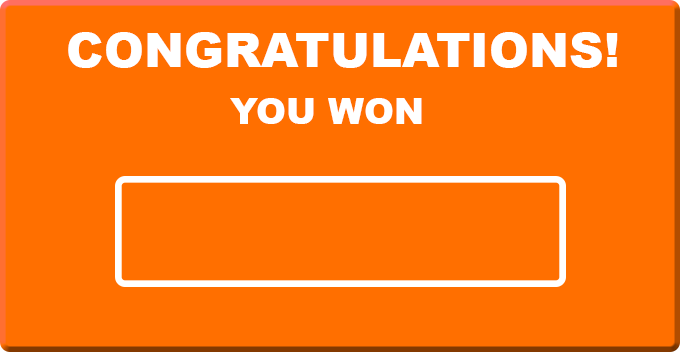
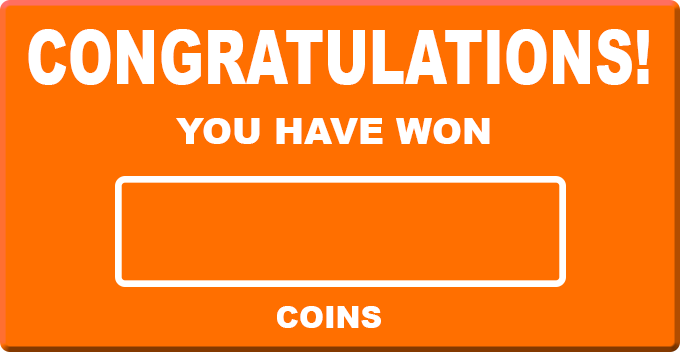
polished up the ai changed the winpanel assets

Changed region(s): [[0.0309, 0.0625, 0.9574, 0.25], [0.2471, 0.2812, 0.7412, 0.4062], [0.4015, 0.8438, 0.5559, 0.9375]]

diff --git a/src/GameStage.js b/src/GameStage.js
@@ -1,7 +1,7 @@
 /**
  * Created by jollzy on 01/12/2015.
  */
-
+var TESTCOUNT = 12;
 function GameStage(itemCreator){
     PIXI.Container.call(this);
     this.gameStart = false;
@@ -9,6 +9,9 @@ function GameStage(itemCreator){
     var size = getWindowBounds();
     this.position.x = 0;
     this.position.y = 0;
+    this.winner = null;
+    this.counter = 0;
+
 
     //holds the runners instances (snails)
     this.runners = [];
@@ -25,8 +28,9 @@ function GameStage(itemCreator){
 
     this.onRaceStart = this.onRaceStart.bind(this);
     this.onResult= this.onResult.bind(this);
-
     Events.Dispatcher.addEventListener(GameEventType.RACE_START,this.onRaceStart);
+    this.onBetCompleted = this.onBetCompleted.bind(this);
+    Events.Dispatcher.addEventListener(GameEventType.BET_COMPLETED,this.onBetCompleted);
 
 };
 
@@ -43,7 +47,21 @@ GameStage.prototype.gameLoop = function(){
             if(this.runners[i].position.x > this.runners[i].finishLineX){
                 clearInterval(this.interval);
                 this.gameStart = false;
-                this.onResult(this.runners[i]);
+                this.winner = this.runners[i]
+                this.counter++;
+               /* switch(this.winner.id){
+                    case 1:
+                        console.log(this.counter+"  winner snail ---- "+ this.winner.id);
+                        break;
+                    case 2:
+                        console.log(this.counter+"  winner snail ------- "+ this.winner.id);
+                        break;
+                    case 3:
+                        console.log(this.counter+"  winner snail ---------- "+ this.winner.id);
+                        break;
+                }*/
+
+                this.onResult();
             }
         }
     }
@@ -54,29 +72,60 @@ GameStage.prototype.resetRunners = function(){
         this.runners[i].position.x = (Constants.RUNNERS_START_POS.x[i]);
         this.runners[i].setState(AnimState.IDLE);
     }
+    if(this.winner.id != pickedRunner/* && this.counter>=TESTCOUNT*/) {
+
+        Events.Dispatcher.dispatchEvent(new Event(GameEventType.RACE_COMPLETED,this.winner.id));
+    }
+    clearTimeout(this.resetRunnersDelay);
+   /* if(this.counter>=TESTCOUNT){
+        this.counter = 0;
+    }else{
+
+        this.onRaceStart()
+    }*/
 };
 
 GameStage.prototype.onRaceStart = function(){
-    console.log("Game start");
+    //console.log("Game start");
 
     var scope = this;
+    var count = 1;
+    var speed = 0.2;
     this.generateSpeed = function(){
+        //console.log(count+" ----------------------------------------");
         for(var i = 0; i < scope.runners.length; i++) {
             var randomnumber = Math.floor(Math.random() * 10);
-            scope.runners[i].setSpeed(Constants.SPEEDS[randomnumber]);
+            speed = Constants.SPEEDS[i][randomnumber];
+            scope.runners[i].setSpeed(speed);
+            //console.log("snail"+(i+1)+" speed: "+ speed);
         }
-    }
+        count++;
 
-    this.runners[pickedRunner-1].setState(AnimState.PICKED);
+    }
     this.generateSpeed();
-    this.interval = setInterval(function(){scope.generateSpeed()},1000);
+    this.interval = setInterval(function(){scope.generateSpeed()},5000);
+
+    //this.runners[1].setSpeed(15); testing only
     this.gameStart = true;
     loopSound(snailMove);
 };
 
-GameStage.prototype.onResult = function(runner){
-    Events.Dispatcher.dispatchEvent(new Event(GameEventType.RACE_COMPLETED,runner.id));
-    runner.setState(AnimState.IDLE);
+GameStage.prototype.onResult = function(){
     snailMove.stop();
-    this.resetRunners();
+    var scope = this;
+    var delay = 1000;
+    if(this.winner.id == pickedRunner/* && this.counter>=TESTCOUNT*/) {
+        soundManager.play("win");
+        delay = 2000;
+        Events.Dispatcher.dispatchEvent(new Event(GameEventType.RACE_COMPLETED,this.winner.id));
+    }else{
+        soundManager.play("lose");
+    }
+    if(this.winner!=null){
+        this.resetRunnersDelay = setTimeout(function(){scope.resetRunners()},delay);
+    }
+};
+
+GameStage.prototype.onBetCompleted = function(){
+    this.runners[pickedRunner-1].setState(AnimState.PICKED);
 };

diff --git a/src/BetBar.js b/src/BetBar.js
@@ -161,14 +161,10 @@ BetBar.prototype.onRaceCompleted = function(event){
     var scope = this;
     //we check if we won
     if(event.data == pickedRunner) {
-        this.labels[Constants.LABEL_WINNING].text = this.getWin();
-        this.updateBallanceDelay = setTimeout(function(){scope.updateBalance()},1000);
-        //i moved the sound to the win panel it gives more umf
-        console.log("YEEPEE I WIN " + event.data)
+        this.winPanel.show(true);
+        this.updateWinningDelay = setTimeout(function(){scope.updateWinning()},1000);
     }else{
-        soundManager.play("lose");
         this.pickPanel.show(true);
-        console.log("OH NOOOOO " + event.data)
     }
     this.imageLabel.setVisible(false);
     //this.enableButtons(true);
@@ -186,6 +182,12 @@ BetBar.prototype.updateBalance = function (){
     this.ballanceAmount +=this.getWin();
     this.labels[Constants.LABEL_BALANCE].text = this.ballanceAmount.toString();
     clearTimeout(this.updateBallanceDelay);
-    this.winPanel.show(true);
     this.labels[Constants.LABEL_WINNING].text = 0;
+};
+
+BetBar.prototype.updateWinning = function (){
+    var scope = this;
+    this.labels[Constants.LABEL_WINNING].text = this.getWin();
+    this.updateBallanceDelay = setTimeout(function(){scope.updateBalance()},2000);
+    clearTimeout(this.updateWinningDelay);
 };

diff --git a/src/Config.js b/src/Config.js
@@ -7,11 +7,15 @@ var Constants={
     AMOUNT_RUNNERS:3,
     GAME_WIDTH : 1136,
     GAME_HEIGHT : 640,
-    RUNNERS_START_POS:{x:[-455, -505, -550], y:[-310, -280, -100]},
-    RUNNER_FINISH_LINE_POS:{x:[420, 390, 375]},
-    SPEEDS : [0.2, 0.5, 0.7 ,0.1, 0.5, 0.4, 0.1, 0.2, 0.1, 0.1, 0.1],
+    RUNNERS_START_POS:{x:[-435, -473, -530], y:[-310, -280, -100]},
+    RUNNER_FINISH_LINE_POS:{x:[375, 385, 415]},
+    SPEEDS : [
+        [0.2, 0.3, 0.2 ,0.2, 0.4, 0.4, 0.4, 0.4, 0.3, 0.3, 0.1],
+        [0.2, 0.2, 0.2 ,0.2, 0.4, 0.3, 0.4, 0.4, 0.6, 0.6, 0.1],
+        [0.1, 0.6, 0.6 ,0.4, 0.4, 0.4, 0.4, 0.2, 0.2, 0.2, 0.2],
+    ],
     //----------------------------BetBar
-    INITIAL_BALANCE : 1000,
+    INITIAL_BALANCE : 500,
     BETBAR_POSITION_Y : 180,
     AMOUNT_BETBAR_LABELS:3,
     BETBAR_LABELS_POS :{x:[410, 150, -115], y:65},
@@ -22,7 +26,7 @@ var Constants={
     START_BUTTON_POS : {x:440, y:17},
     PLUS_BUTTON_POS : {x: 250, y:17},
     MINUS_BUTTON_POS : {x: 250, y:70},
-    BET_VALUES : [10, 50, 100, 500, 1000, 5000],
+    BET_VALUES : [10, 50, 100, 250, 500, 1000, 2000, 3000, 5000, 10000],
     MIN_BUTTON_ID :0,
     PLUS_BUTTON_ID :1,
     //----------------------------PickPanel

diff --git a/src/Game.js b/src/Game.js
@@ -26,8 +26,8 @@ function Game(){
     Events.Dispatcher.addEventListener(GameEventType.WIN_PRESENTATION_COMPLETED,this.onWinPresentationComplete);
     this.onUpdateWinPanel= this.onUpdateWinPanel.bind(this);
     Events.Dispatcher.addEventListener(GameEventType.UPDATE_WIN,this.onUpdateWinPanel);
-    this.onRaceCompleted = this.onRaceCompleted.bind(this);
-    Events.Dispatcher.addEventListener(GameEventType.RACE_COMPLETED,this.onRaceCompleted);
+    //this.onRaceCompleted = this.onRaceCompleted.bind(this);
+    //Events.Dispatcher.addEventListener(GameEventType.RACE_COMPLETED,this.onRaceCompleted);
 
 };
 
@@ -85,9 +85,9 @@ Game.prototype.onUpdateWinPanel = function(event){
 };
 
 Game.prototype.onRaceCompleted = function(event){
-    if(event.data == pickedRunner) {
+    /*if(event.data == pickedRunner) {
         soundManager.play("win");
-    }
+    }*/
 };
 
 

diff --git a/src/PickPanel.js b/src/PickPanel.js
@@ -67,7 +67,9 @@ PickPanel.prototype.pickWinner = function(btn){
 };
 
 PickPanel.prototype.onTweenComplete = function(isShow){
-    if(!isShow)Events.Dispatcher.dispatchEvent(new Event(GameEventType.BET_COMPLETED));
+    if(!isShow){
+        Events.Dispatcher.dispatchEvent(new Event(GameEventType.BET_COMPLETED));
+    }
     TWEEN.remove(this.tween);
     this.tween = null;
 };
